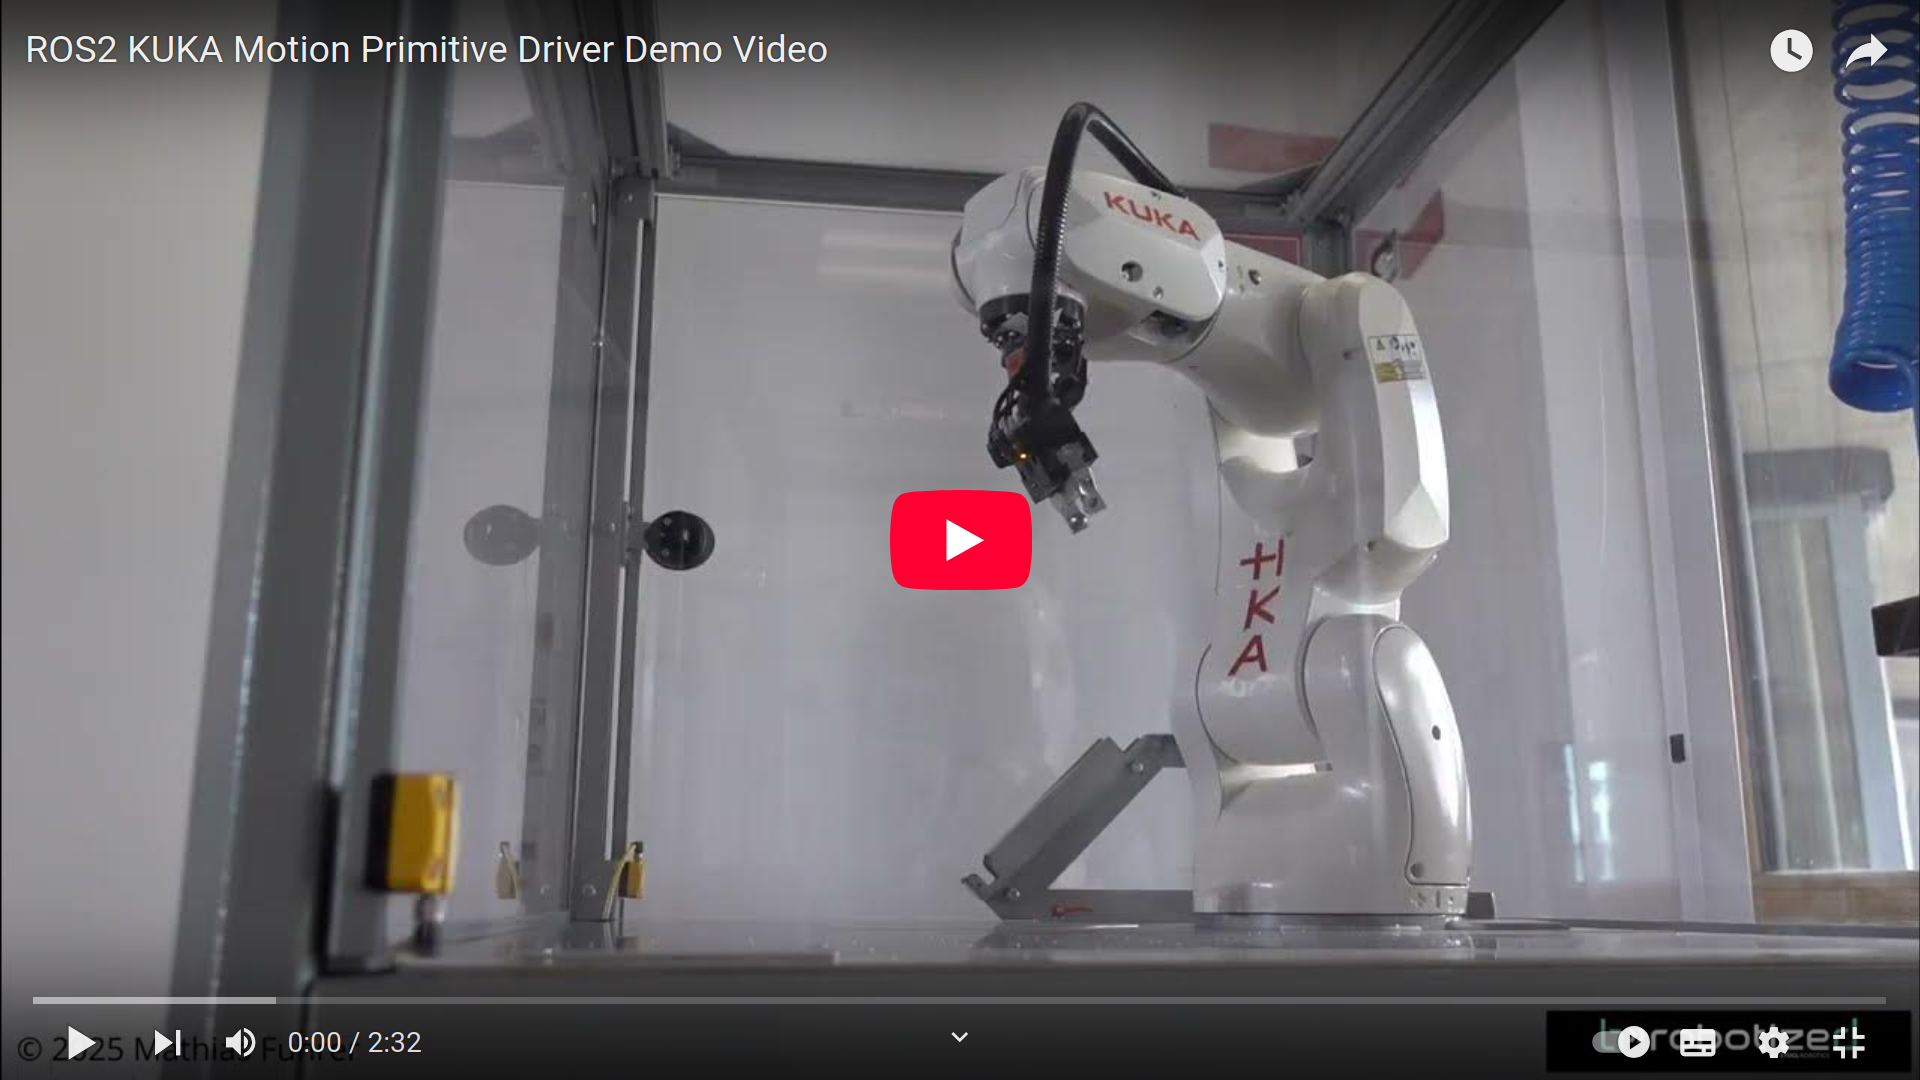
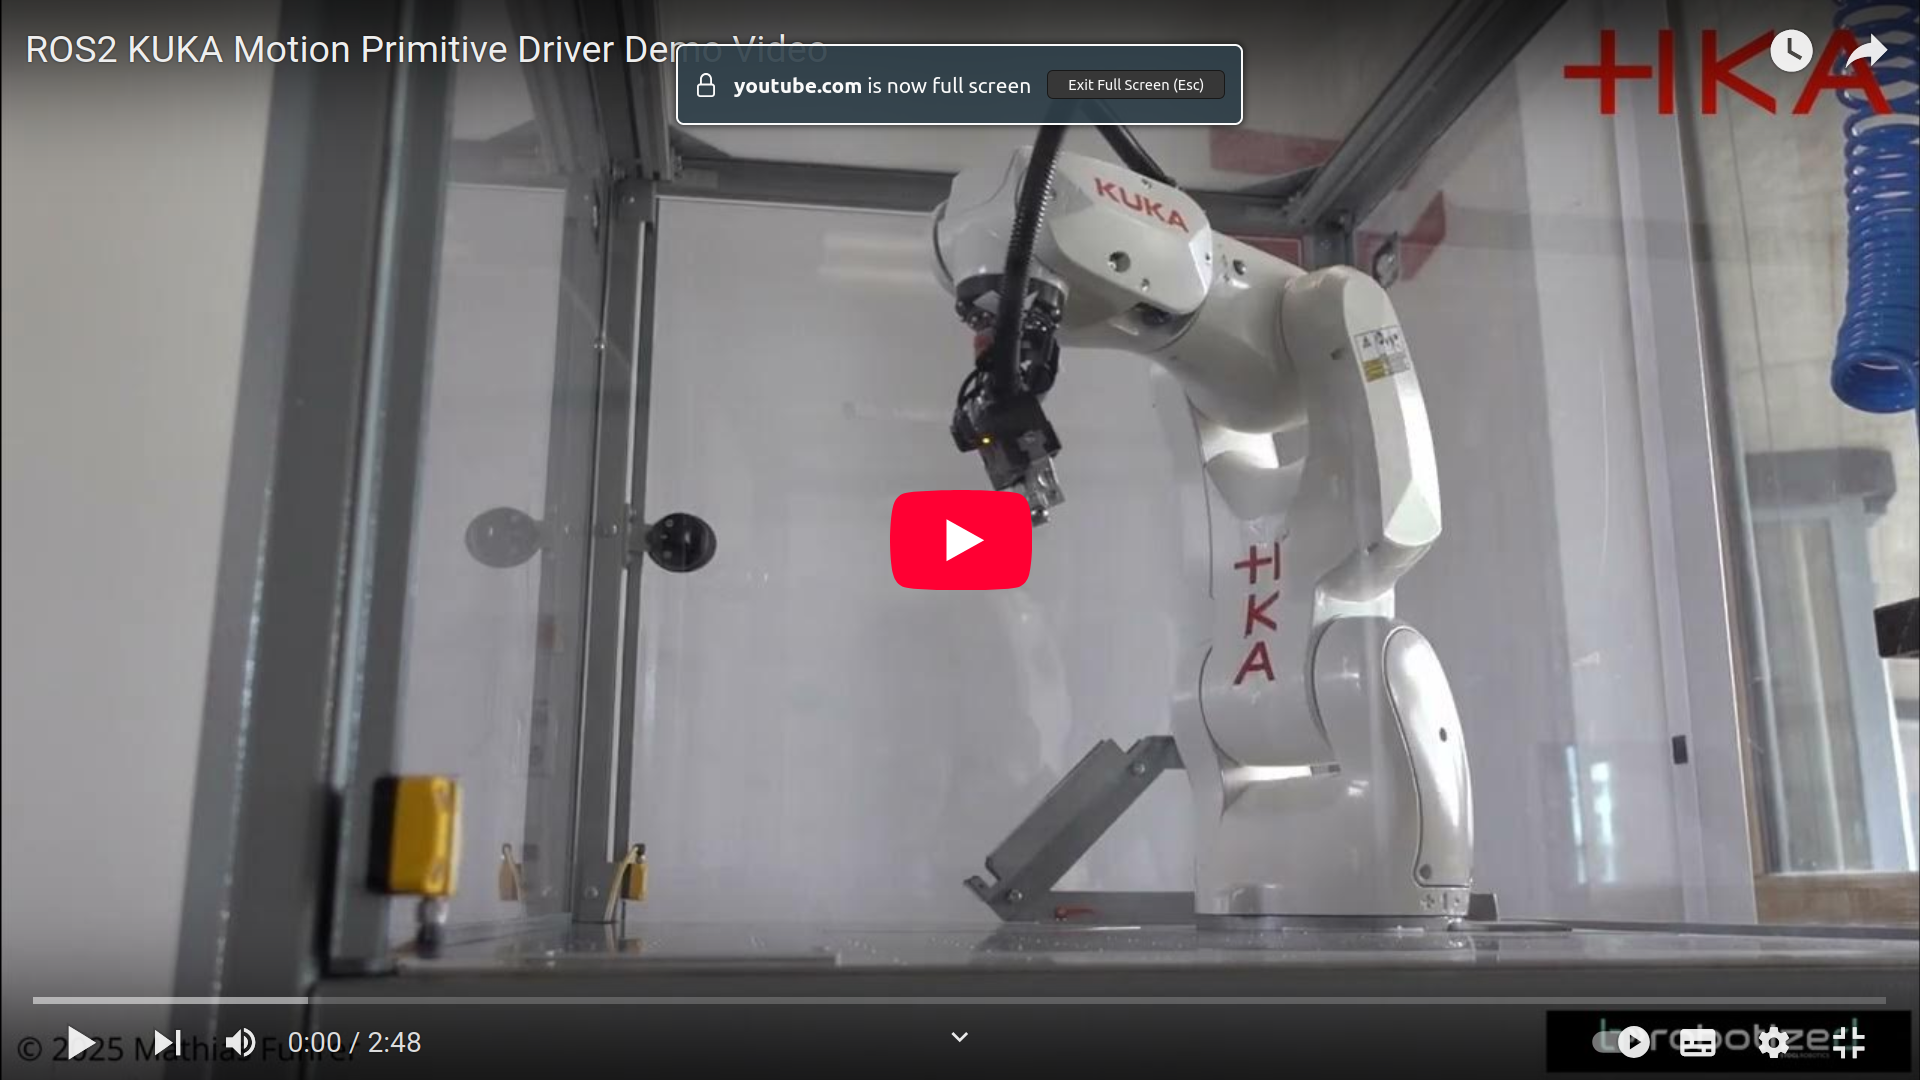
updated demo video for motion_primitives_kuka_driver

diff --git a/kuka_eki_motion_primitives_hw_interface/README.md b/kuka_eki_motion_primitives_hw_interface/README.md
@@ -6,7 +6,7 @@ Hardware interface for executing motion primitives on a KUKA robot using the ROS
 [![Licence](https://img.shields.io/badge/License-Apache-2.0-blue.svg)](https://opensource.org/licenses/Apache-2.0)
 
 # Demo Video
-[![Play Video](doc/kuka_demo_video_preview.png)](https://www.youtube.com/watch?v=8op5yFYDebU)
+[![Play Video](doc/kuka_demo_video_preview.png)](https://www.youtube.com/watch?v=LFxwfy6cmH4)
 
 # Related packages/ repos
 - [industrial_robot_motion_interfaces (with additional helper types for stop and motion sequence)](https://github.com/StoglRobotics-forks/industrial_robot_motion_interfaces/tree/helper-types)
@@ -152,6 +152,5 @@ ros2 topic pub /motion_primitive_controller/reference industrial_robot_motion_in
 
 
 # TODOs
-- Blending between motion primitives not working yet
 - Check if motion execution ends with success
 - Execute eki_close() when programm is stopped/ deselected to properly close the connection --> without eki_close() its not possible to init a new server when restarting the program. 